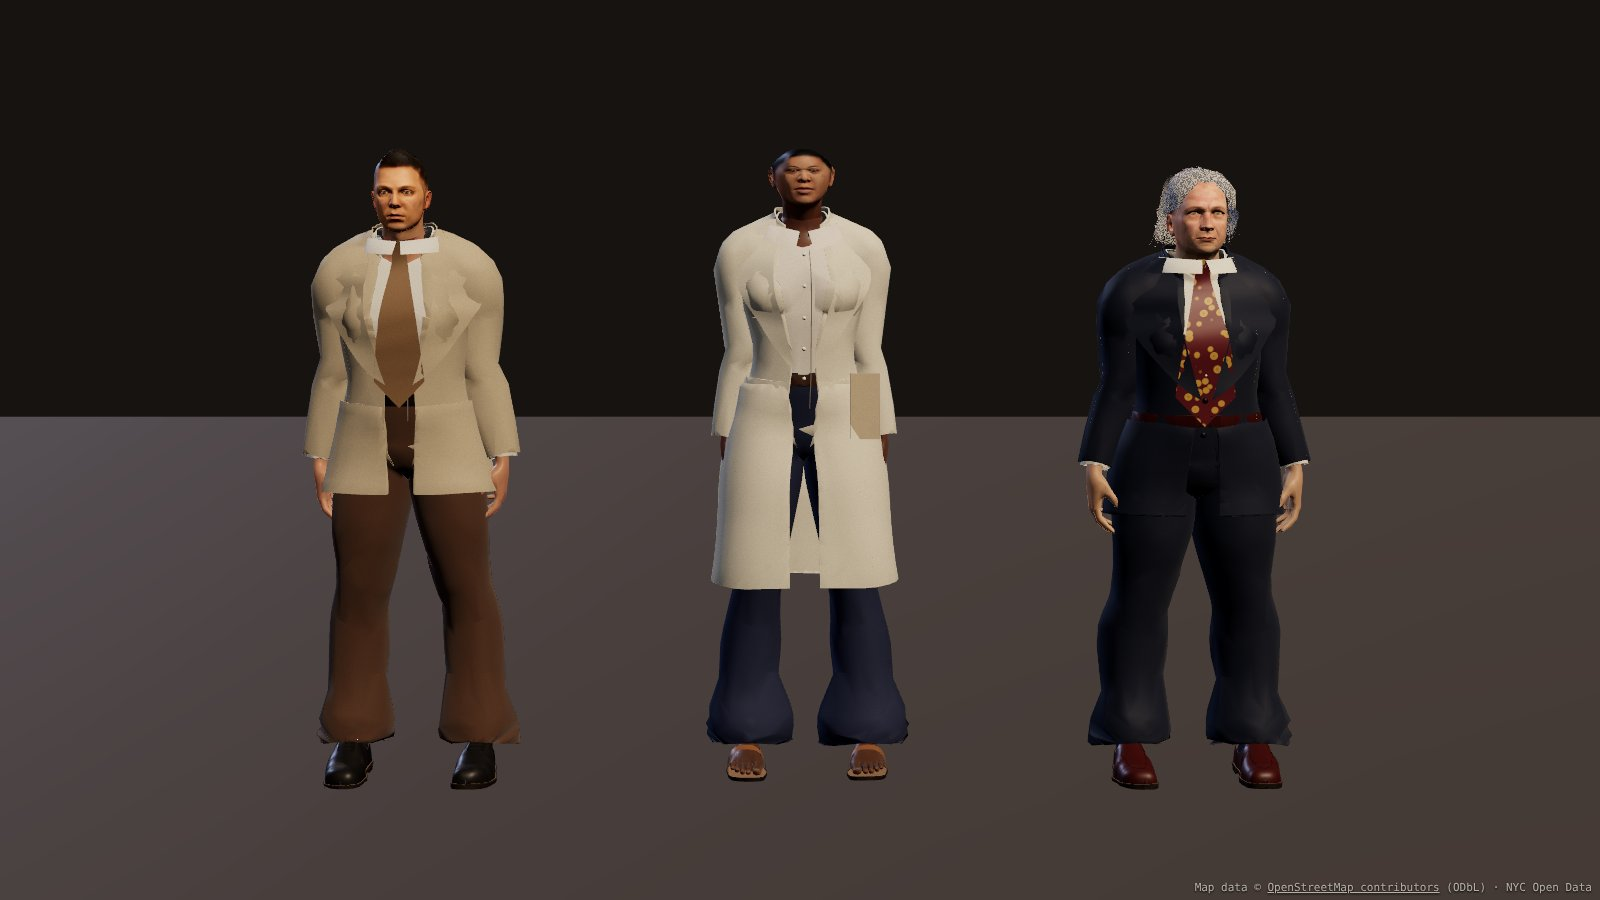
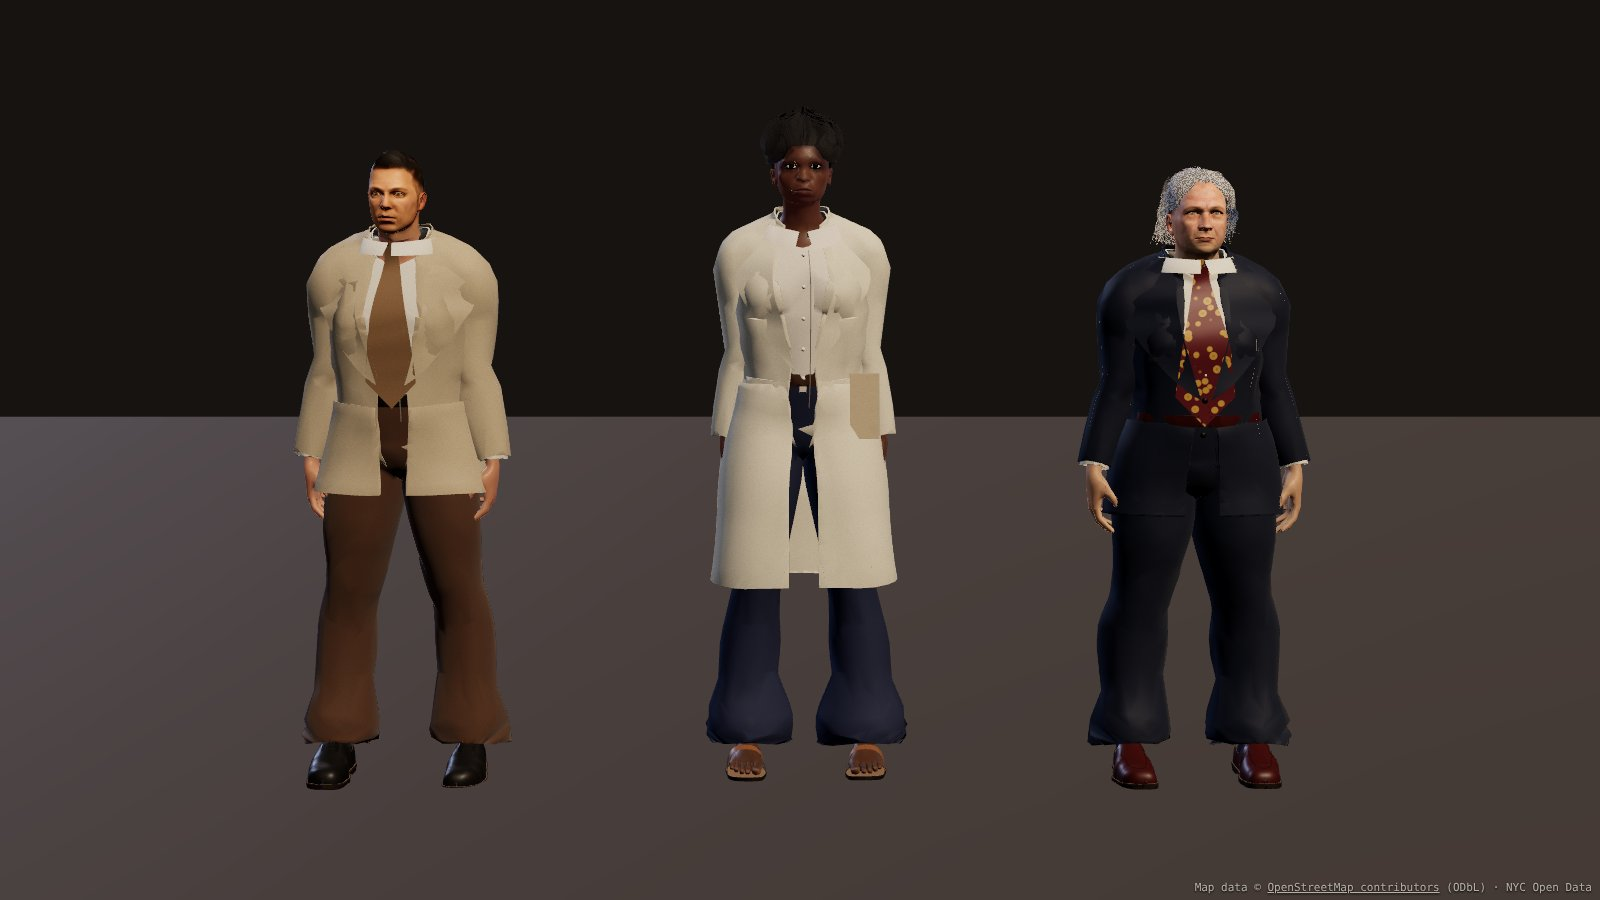
Characters: interim face unevenness logged as a known gap (user: find more sources first)
Claude-Session: https://claude.ai/code/session_01H4ZSJ9HHC3JhC3uZj5pVfG

diff --git a/docs/CHARACTERS_PROGRESS.md b/docs/CHARACTERS_PROGRESS.md
@@ -317,9 +317,12 @@ real problems, and the cause went deeper than tuning:
   - **Decision taken for now:** Delphine wears our parametric head (African macro, sheet tone,
     MakeHuman skin detail, our afroShort hair). The candidate stays in `scene=rocketbox` for
     comparison only.
-  - **Options for the user:** (a) commission or source a suitable CC0/MIT head; (b) invest in our
-    own head for Delphine (face texture, hair rebuilt as cropped natural); (c) accept
-    Female_Party_02 with heavy edits (not recommended).
+  - **User decision (via oversight): "Find more sources first."** We don't ship an uneven quality
+    bar. A search for further redistributable realistic heads (CC0/CC-BY/MIT; adults; no
+    identifiable real person without a release) is under way. If no adequate free source exists,
+    a costed buy/commission option goes to the user.
+- **Known gap to close, not an accepted state:** until then, Delphine and Black women in the near
+  ring have weaker faces (our parametric head) than pedestrians a Rocketbox head matches.
 - **The truncated crown** came from the hair compression pulling the crown inside the forehead
   shell. It's moot for Delphine now, and the compression is excluded from the face.
 - **Pool fidelity:** tags were re-checked against the previews (Female_Adult_11 back in the pool,
